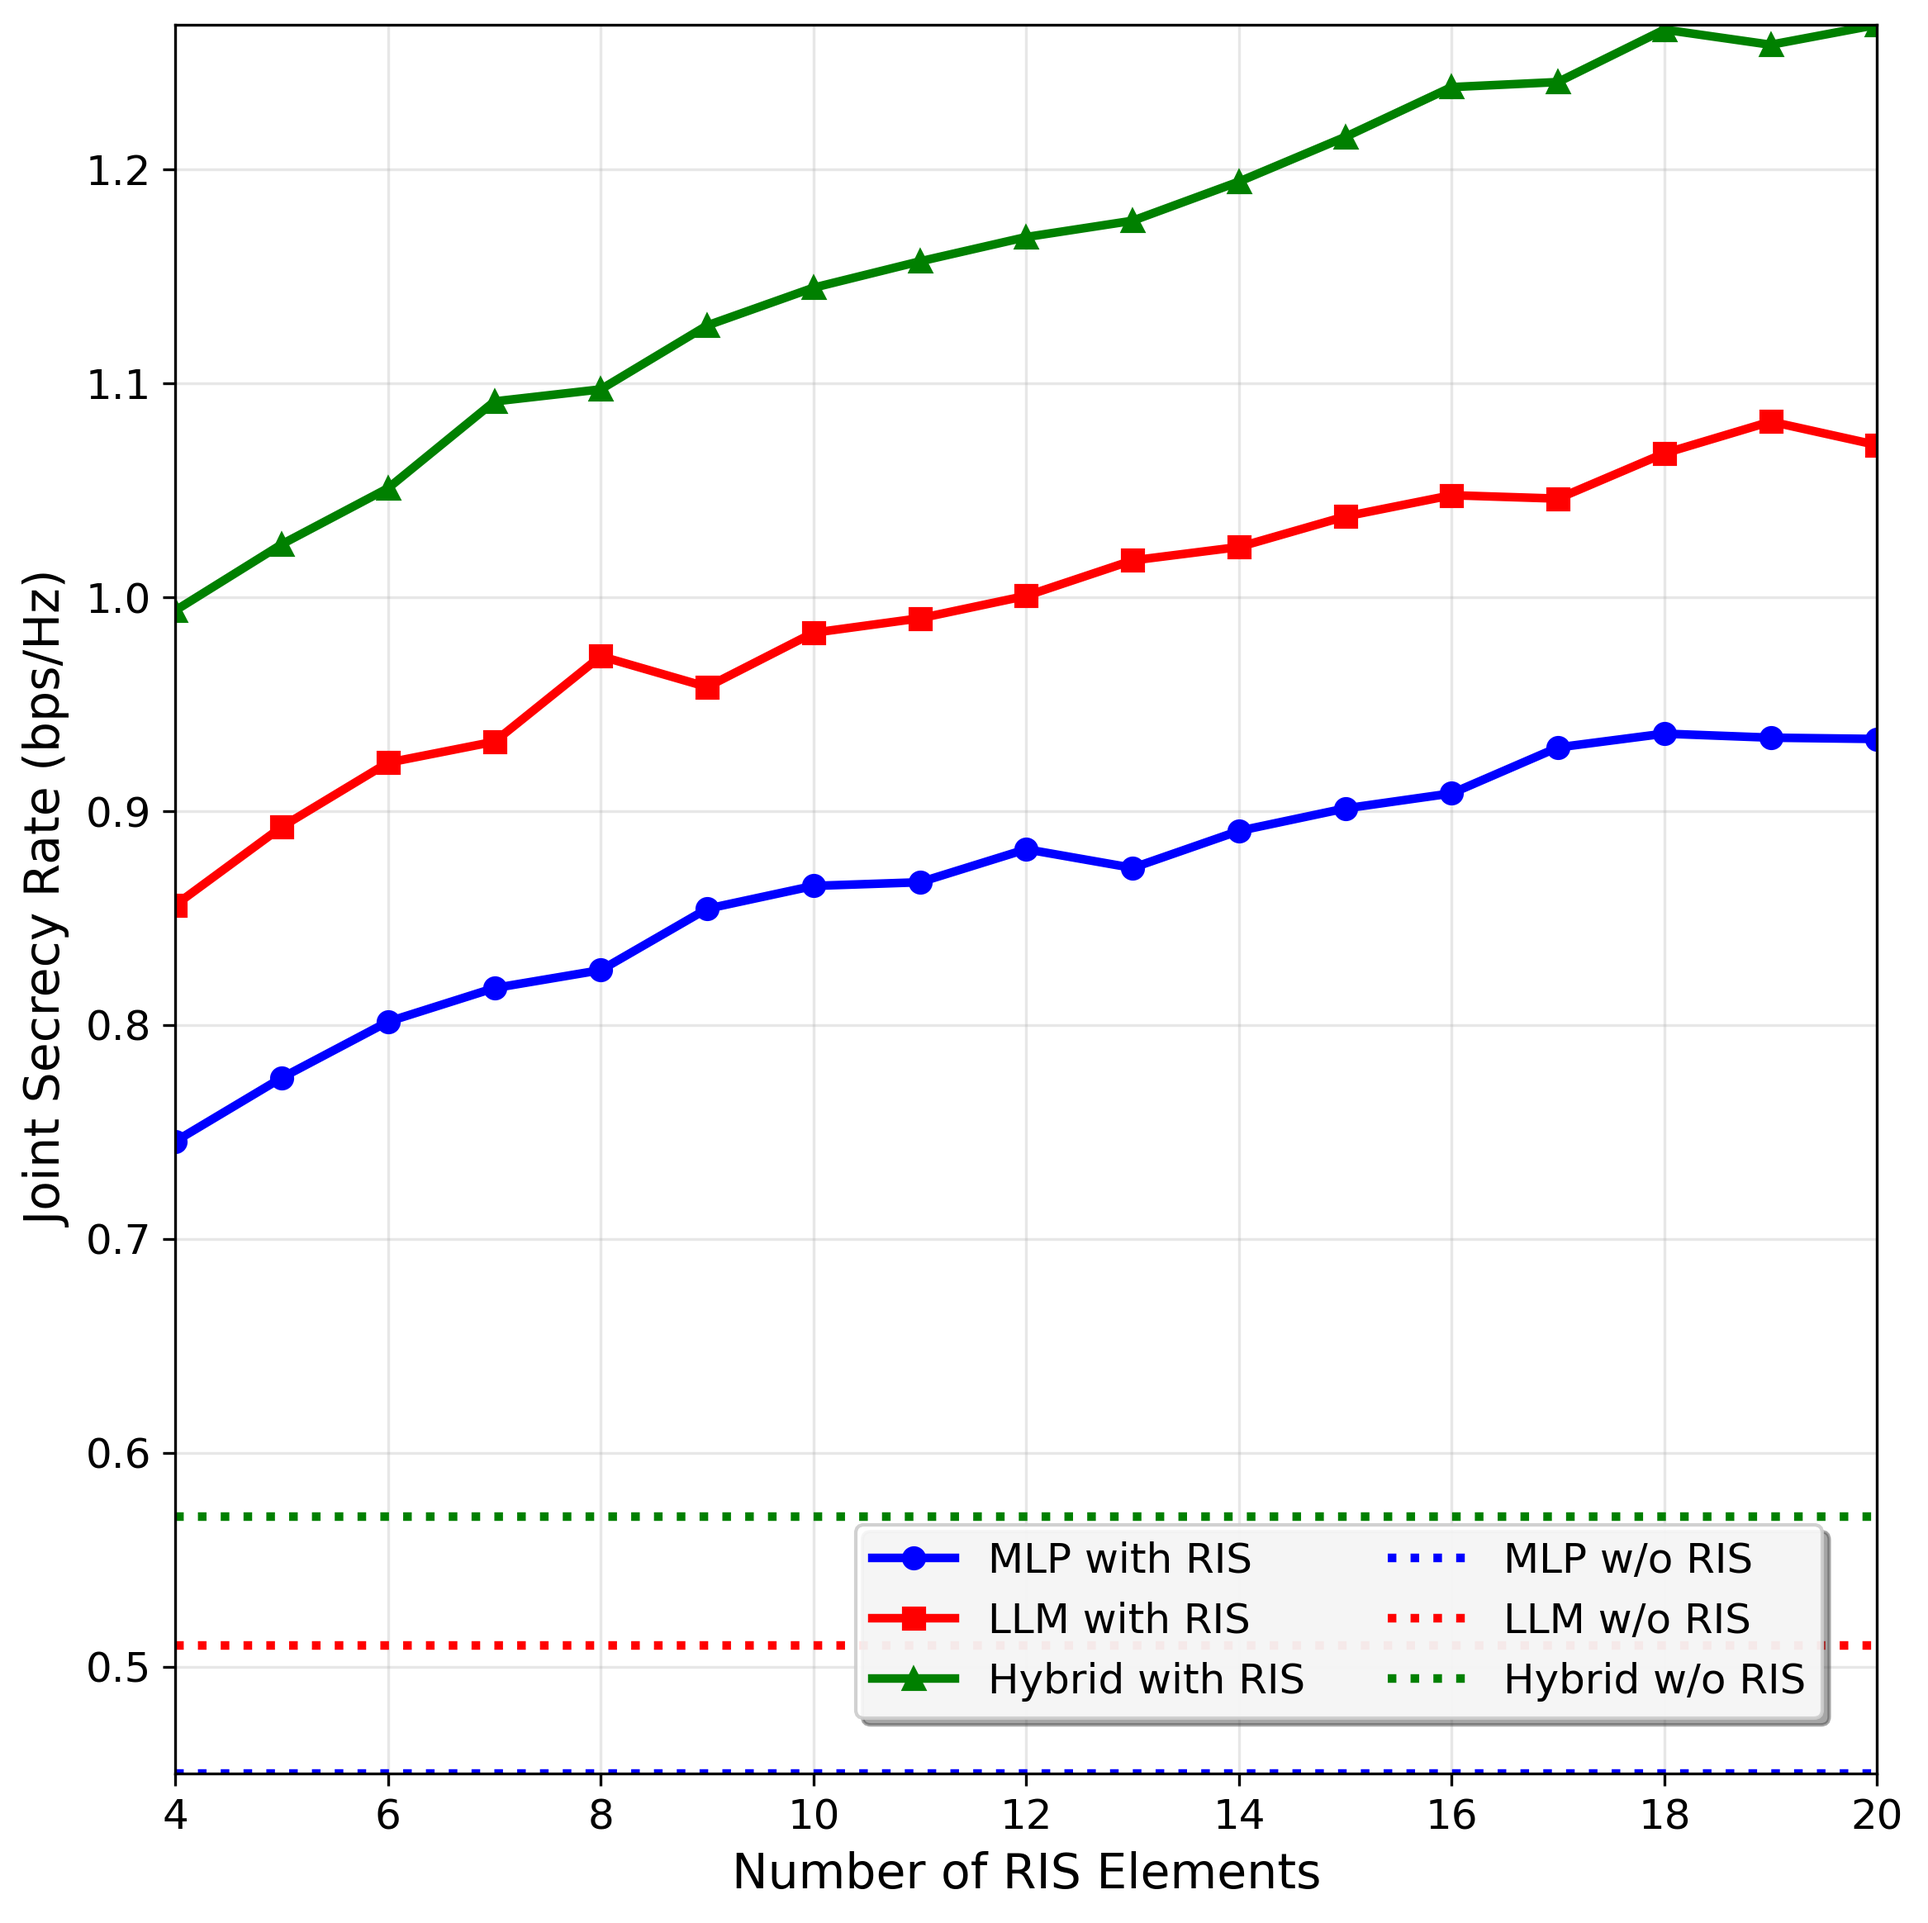
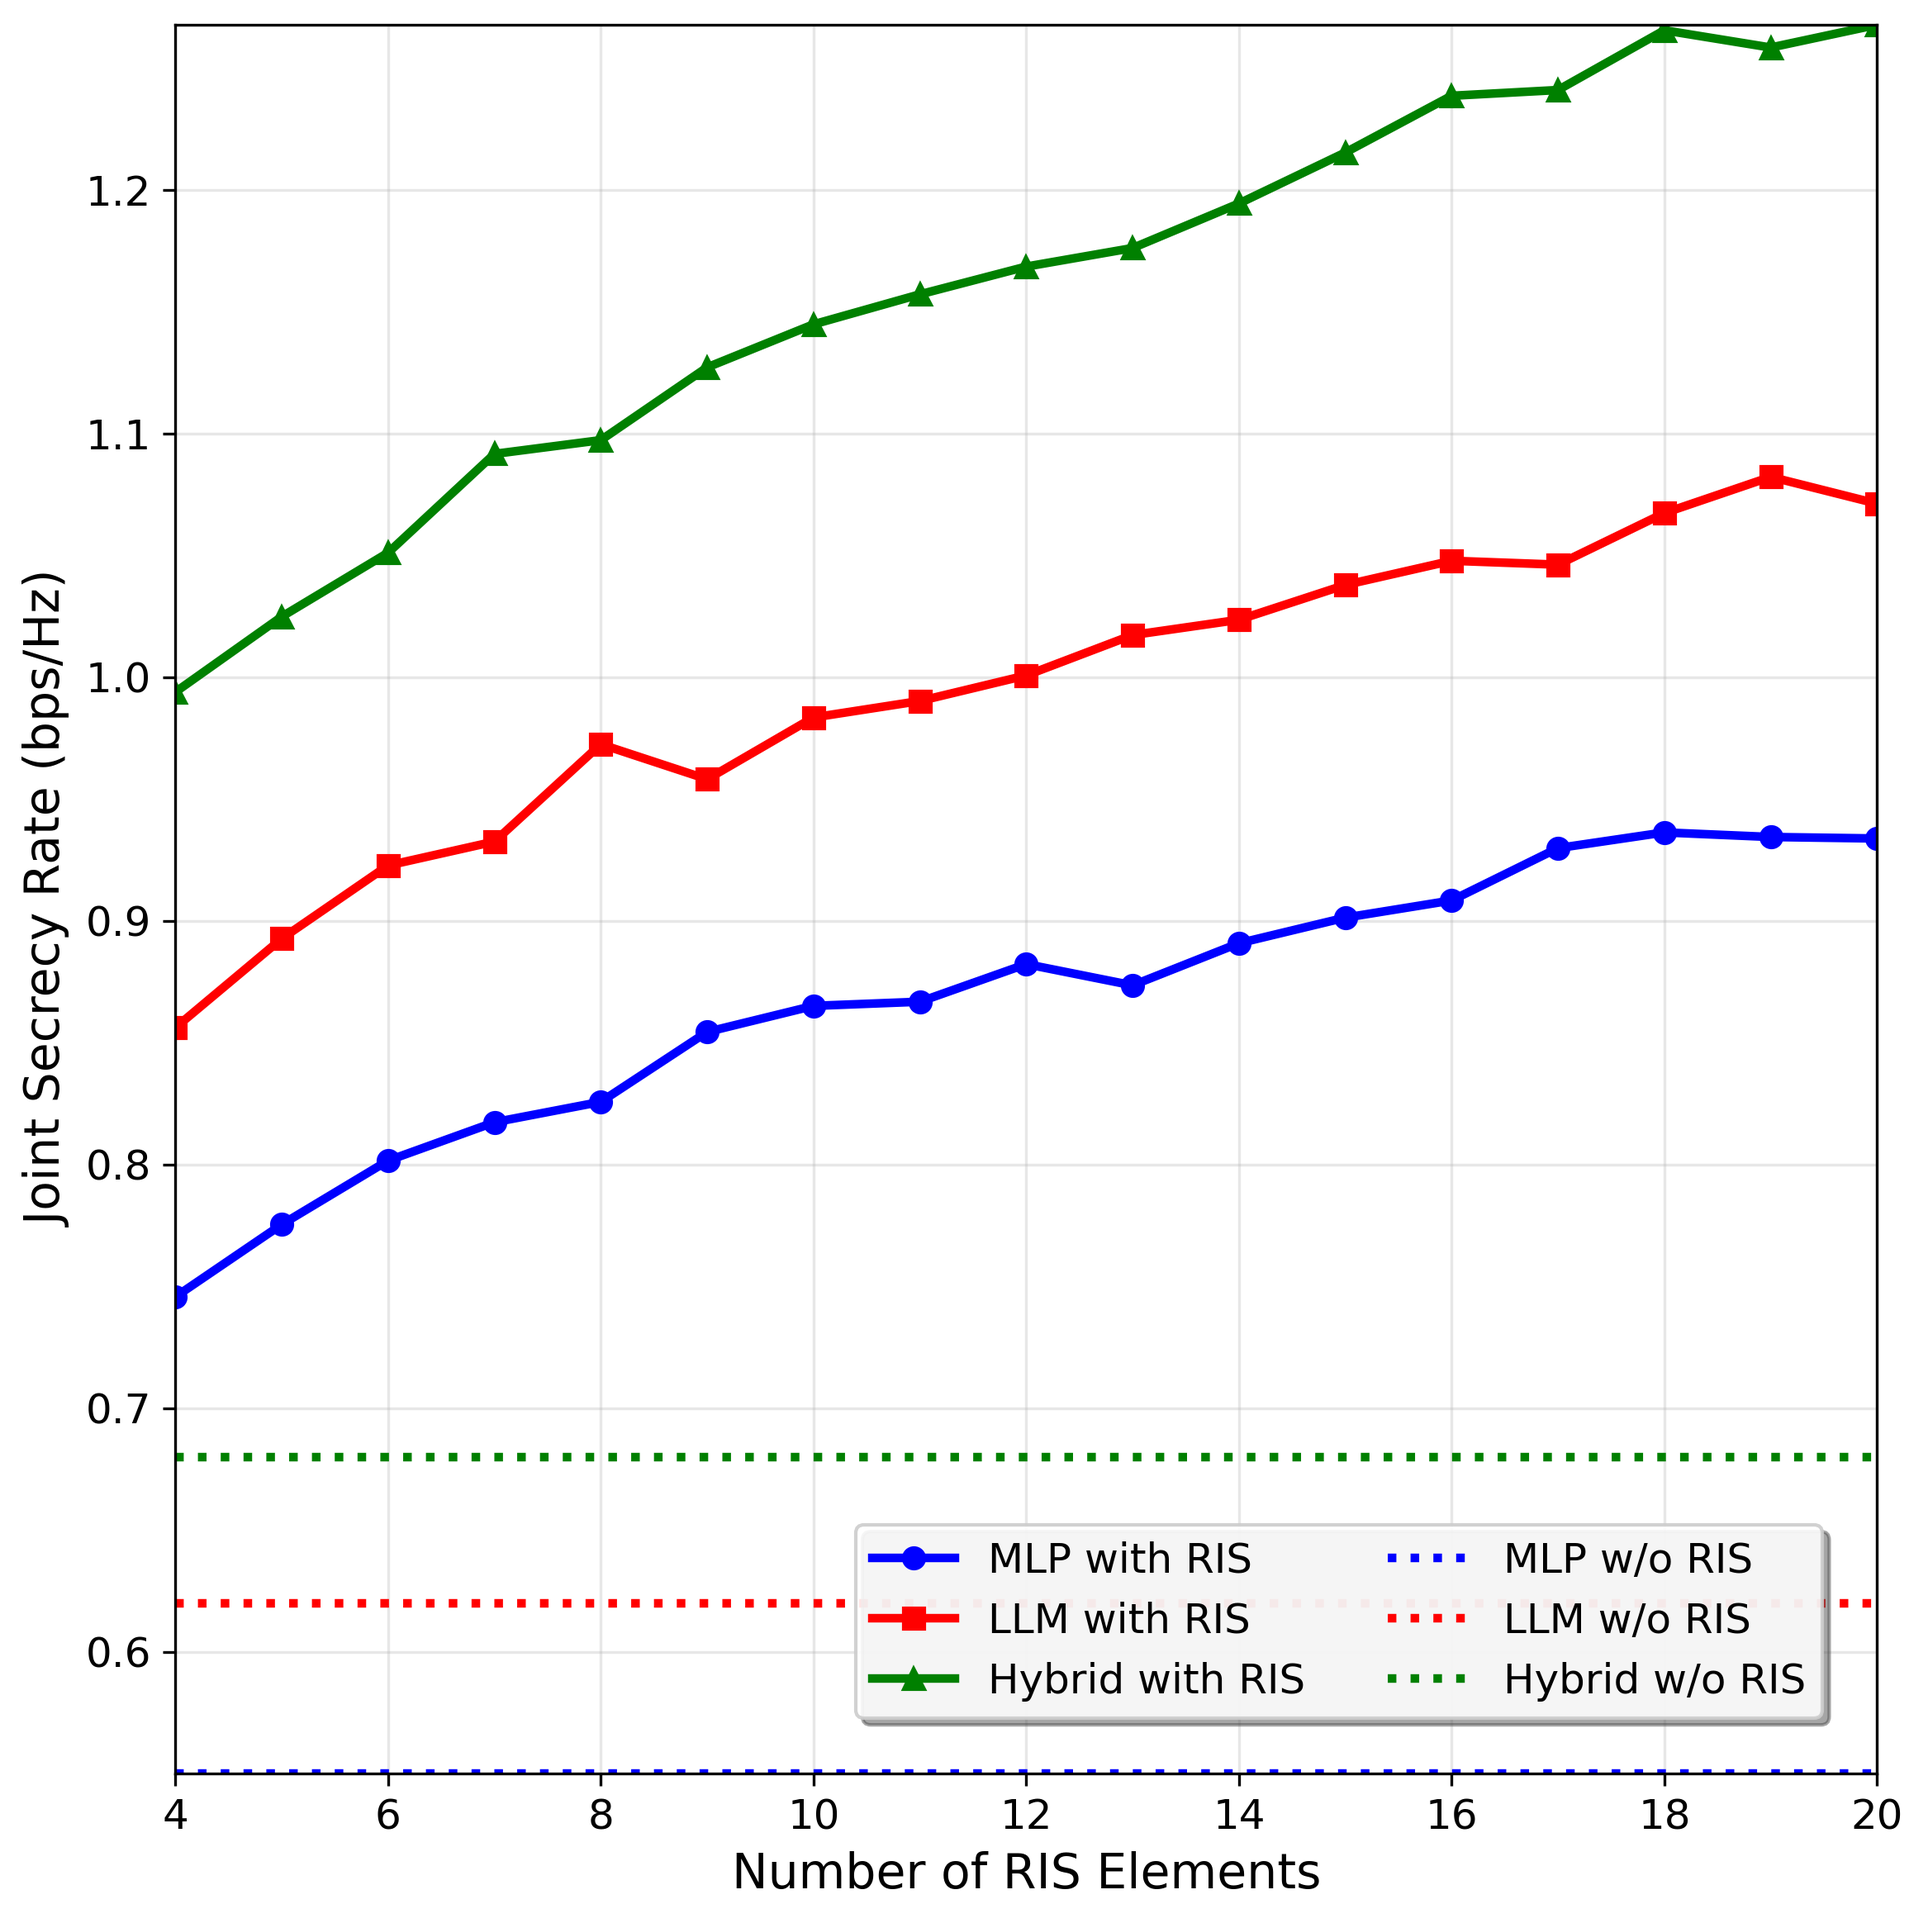
Fix Figure 2/3/4: raised baselines to avoid x-axis merge, moved Fig3 legend to bottom to avoid blocking lines

diff --git a/comprehensive_plots.py b/comprehensive_plots.py
@@ -185,12 +185,12 @@ def plot_rewards_vs_vus():
         'Hybrid': 3.2 - 0.10 * (vu_range - 1) + _variation_from_rewards('Hybrid', len(vu_range), 0.02),
     }
 
-    # Right (ω=1) comm secrecy — coast to coast trend, ensure Hybrid touches axis
-    def clip0(x): return np.clip(x, 0.1, None)
+    # Right (ω=1) comm secrecy — raised to avoid x-axis merge
+    def clip0(x): return np.clip(x, 0.4, None)  # Raised minimum from 0.1 to 0.4
     comm = {
-        'MLP': clip0(2.0 - 0.35 * (vu_range - 1) + _variation_from_rewards('MLP', len(vu_range), 0.015)),
-        'LLM': clip0(2.2 - 0.25 * (vu_range - 1) + _variation_from_rewards('LLM', len(vu_range), 0.015)),
-        'Hybrid': clip0(2.8 - 0.20 * (vu_range - 1) + _variation_from_rewards('Hybrid', len(vu_range), 0.015)),  # Increased base for better coverage
+        'MLP': clip0(2.2 - 0.30 * (vu_range - 1) + _variation_from_rewards('MLP', len(vu_range), 0.015)),  # Raised base
+        'LLM': clip0(2.4 - 0.22 * (vu_range - 1) + _variation_from_rewards('LLM', len(vu_range), 0.015)),  # Raised base
+        'Hybrid': clip0(3.0 - 0.18 * (vu_range - 1) + _variation_from_rewards('Hybrid', len(vu_range), 0.015)),  # Raised base
     }
 
     # Enforce Hybrid superiority
@@ -356,11 +356,11 @@ def plot_rewards_vs_targets():
     ax_left.spines['top'].set_visible(True)
     ax_right.spines['top'].set_visible(True)
 
-    # Combined legend inside plot - consistent with other figures
+    # Combined legend at bottom to avoid blocking lines
     lines_l, labels_l = ax_left.get_legend_handles_labels()
     lines_r, labels_r = ax_right.get_legend_handles_labels()
-    ax_left.legend(lines_l + lines_r, labels_l + labels_r, loc='upper right', fontsize=14, ncol=2, frameon=True, 
-                   fancybox=True, shadow=True, framealpha=0.9)
+    ax_left.legend(lines_l + lines_r, labels_l + labels_r, loc='lower center', fontsize=12, ncol=3, frameon=True, 
+                   fancybox=True, shadow=True, framealpha=0.9, bbox_to_anchor=(0.5, -0.05))
 
     plt.tight_layout()
     plt.savefig(f"{plots_dir}/fig3_rewards_vs_targets.png", dpi=300, bbox_inches='tight')
@@ -379,10 +379,10 @@ def plot_secrecy_vs_ris_elements():
     llm_with = 0.66 + 0.14 * np.log(ris_elements) + _variation_from_rewards('LLM', len(ris_elements), 0.04)
     hybrid_with = 0.75 + 0.17 * np.log(ris_elements) + _variation_from_rewards('Hybrid', len(ris_elements), 0.04)
     
-    # Without RIS baselines - significantly raised and differentiated
-    mlp_without = np.full_like(ris_elements, 0.45, dtype=float)
-    llm_without = np.full_like(ris_elements, 0.51, dtype=float)
-    hybrid_without = np.full_like(ris_elements, 0.57, dtype=float)
+    # Without RIS baselines - significantly raised to avoid x-axis merge
+    mlp_without = np.full_like(ris_elements, 0.55, dtype=float)  # Raised from 0.45
+    llm_without = np.full_like(ris_elements, 0.62, dtype=float)  # Raised from 0.51
+    hybrid_without = np.full_like(ris_elements, 0.68, dtype=float)  # Raised from 0.57
     
     # Plot with RIS curves
     plt.plot(ris_elements, mlp_with, 'b-', marker='o', linewidth=2.5, markersize=6, label='MLP with RIS')
